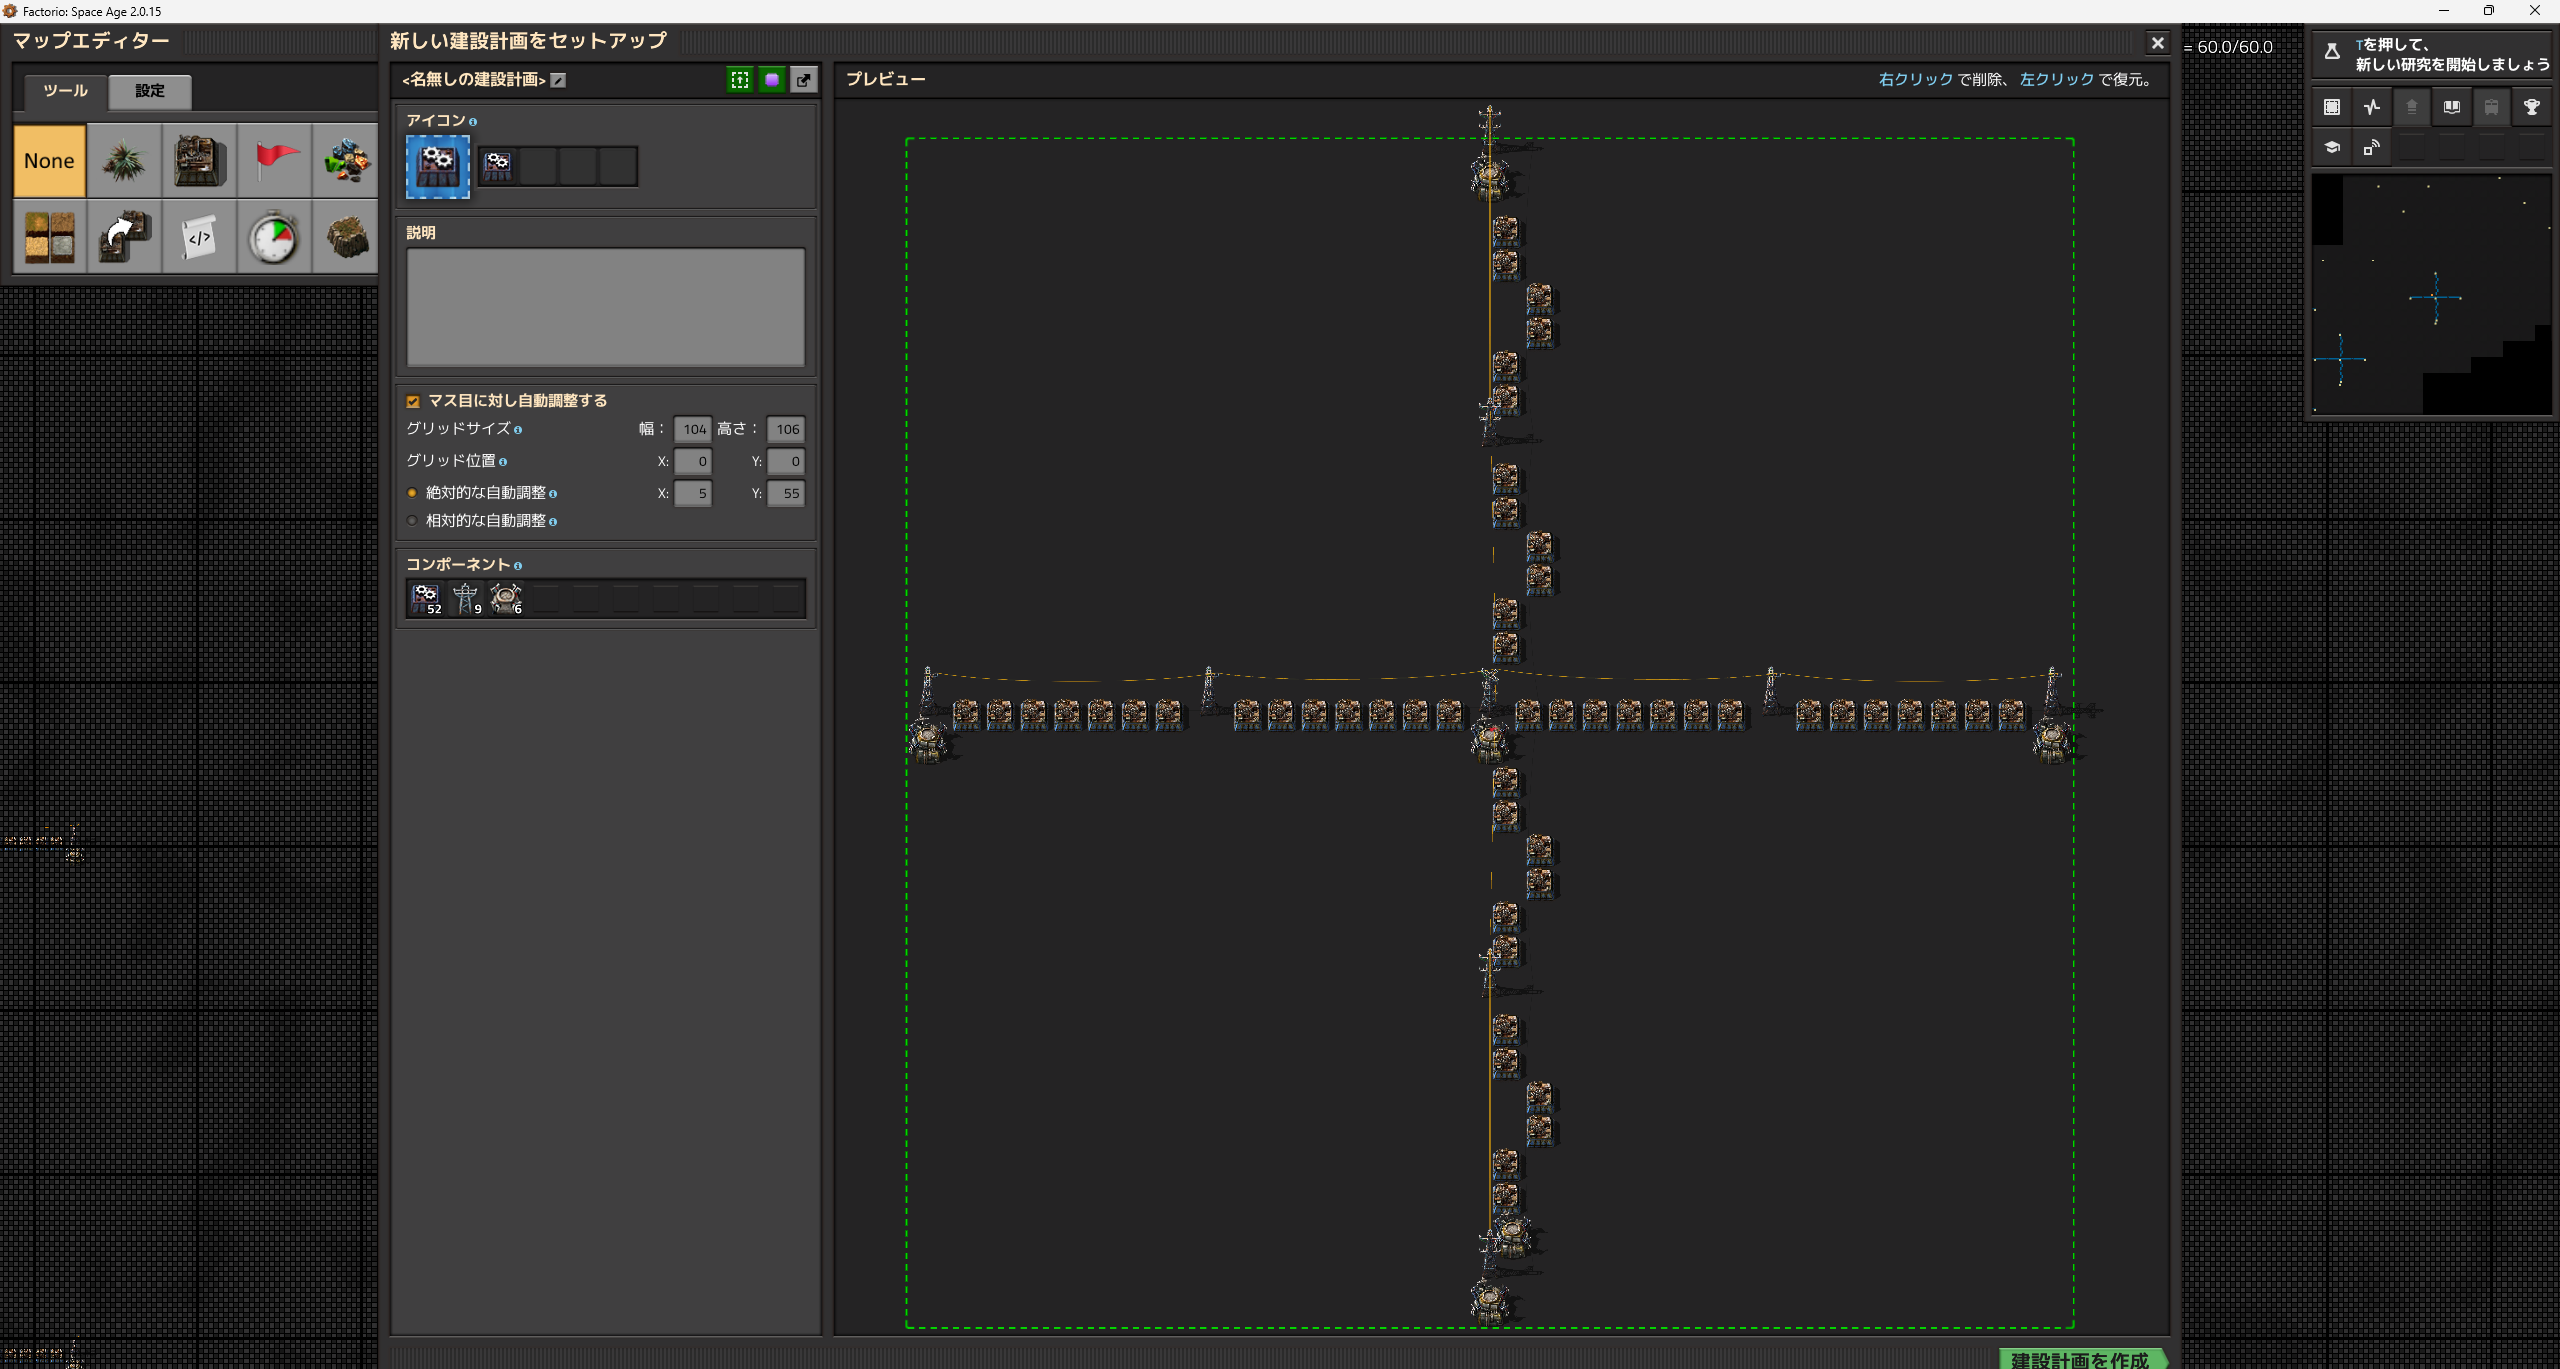
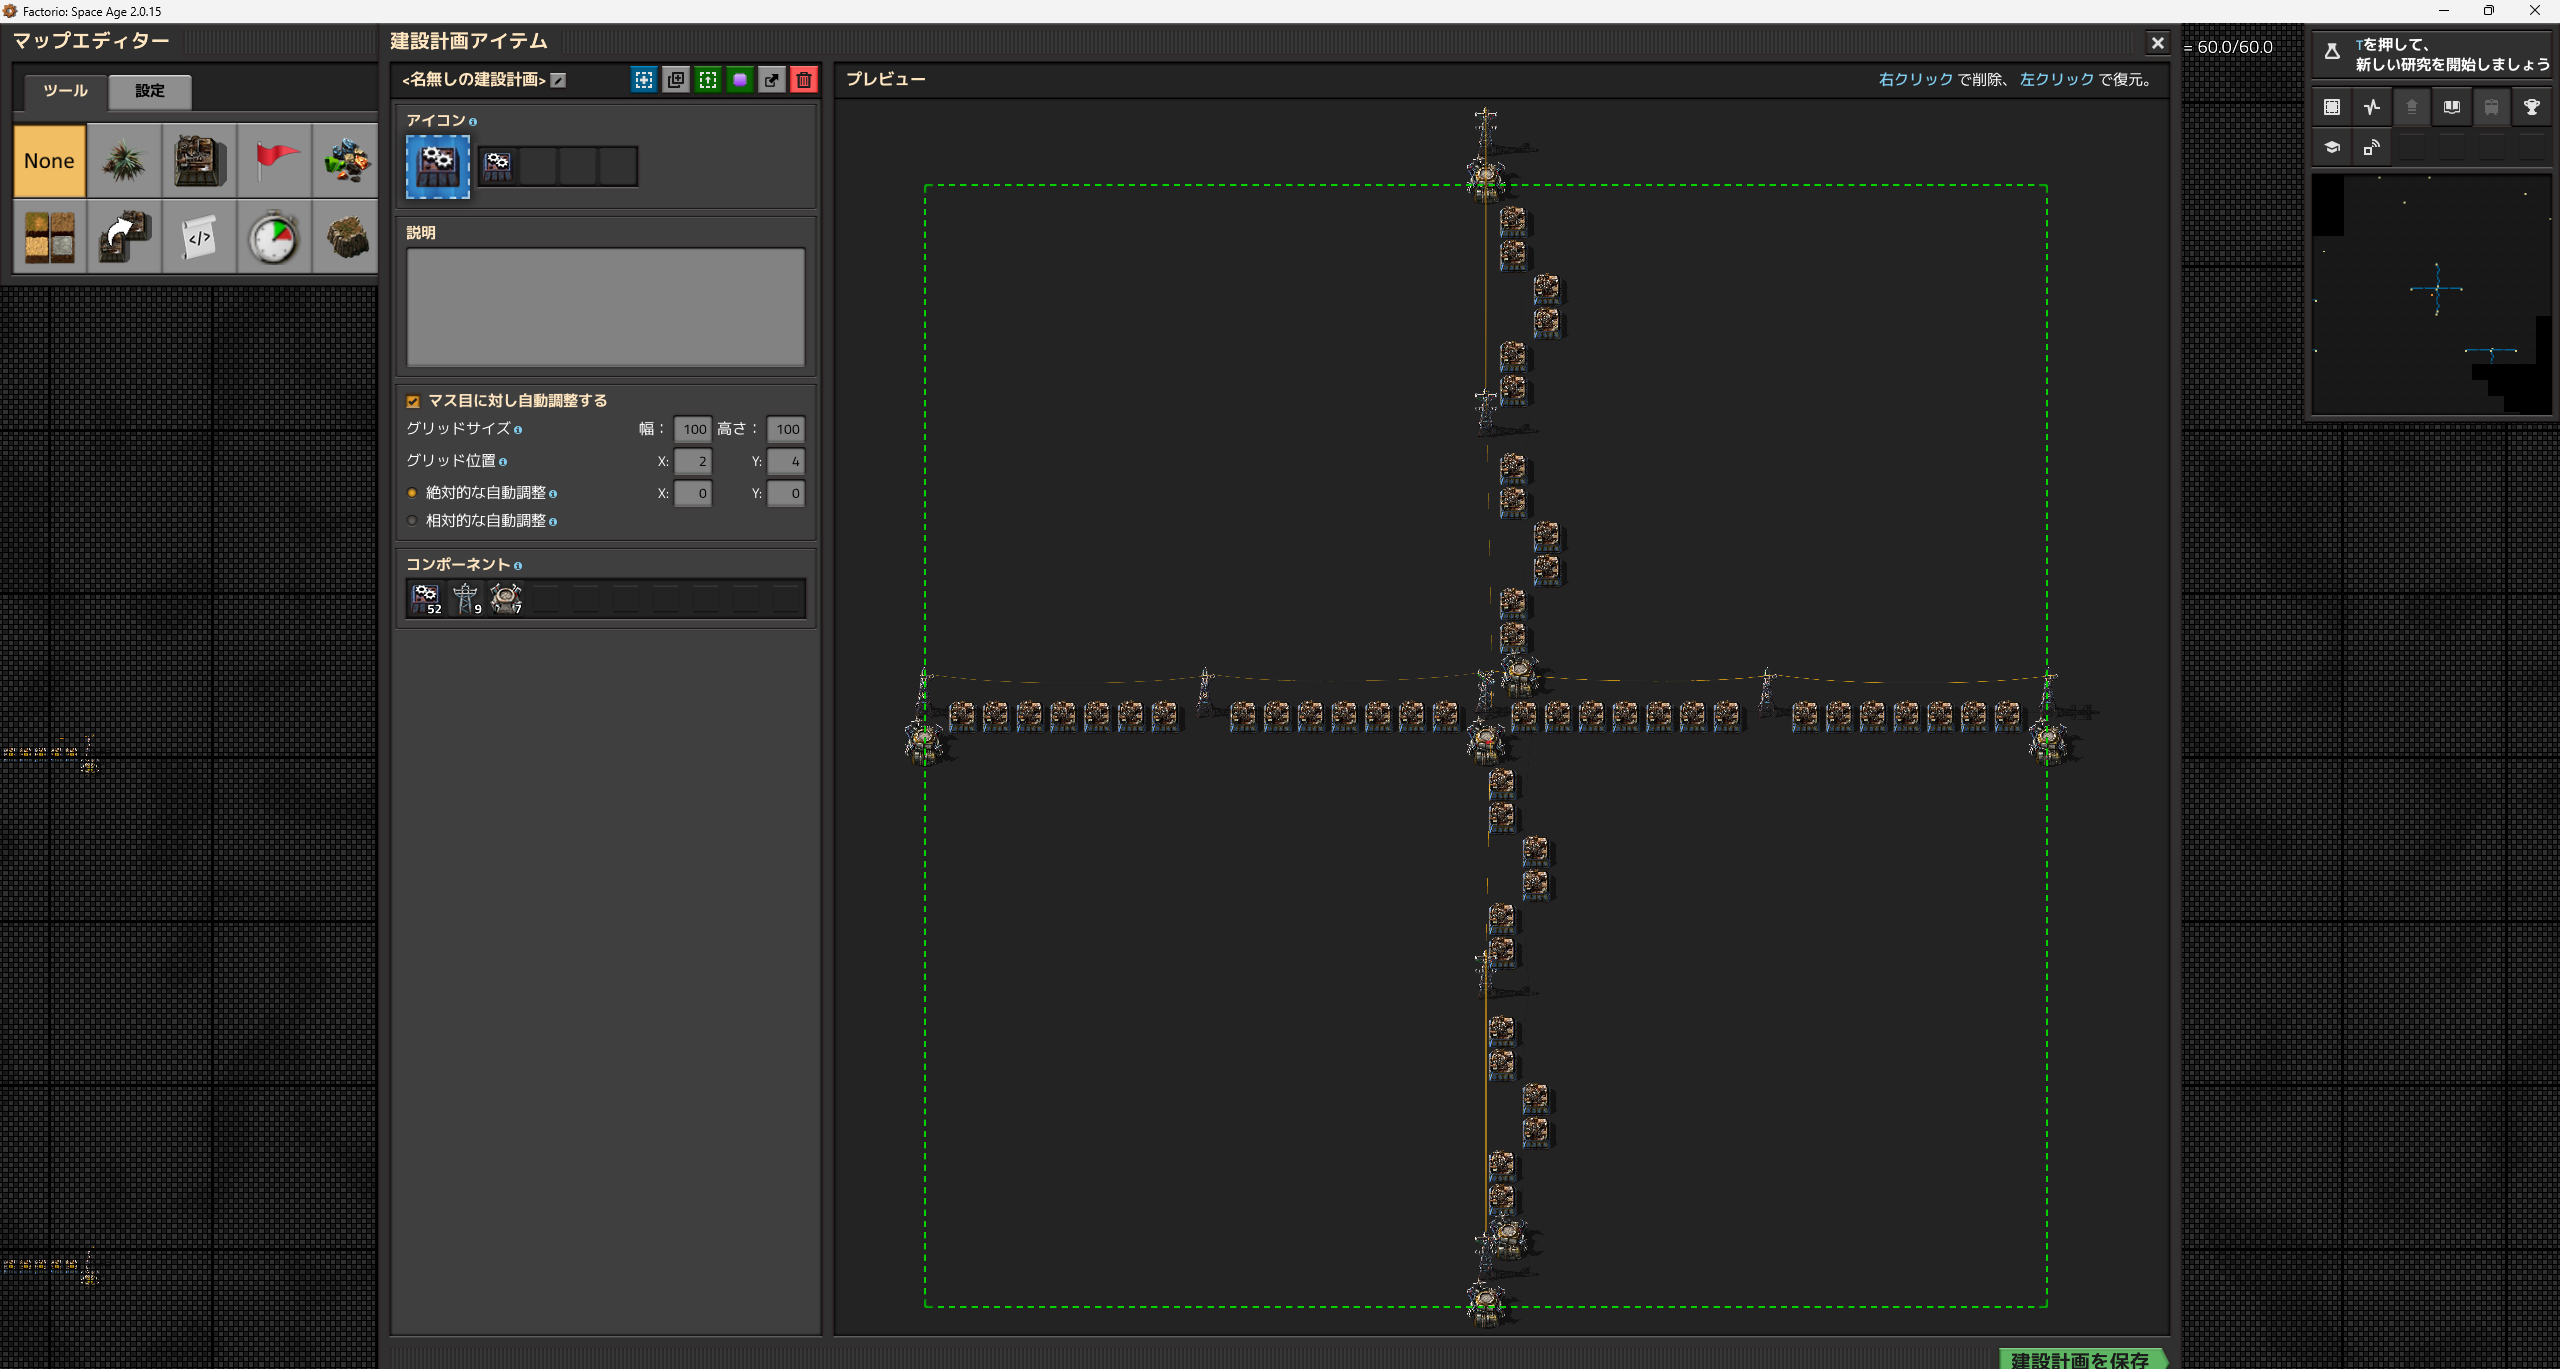
factorio: ミスを見つけたので修正。BPも追加

diff --git a/contents/blog/2024-11-15/index.md b/contents/blog/2024-11-15/index.md
@@ -16,3 +16,17 @@ slug: factorio-robot-station-blueprint
 
 ## 次の２枚見ればわかるはず
 
+# 覚書
+- グリッドサイズ 100x100
+- ポジション 2, 4
+- 絶対位置0,0 (ゲーム内の絶対位置？)
+- ロボットネットワークの半径相当のグリッドサイズは25x25マス
+  - なので4半径分で100マス
+  - ボスステは4x4マス
+  - 電柱は2x2マス
+
+# BP
+
+```text
[1 lines of base64/hex data omitted]
+```
